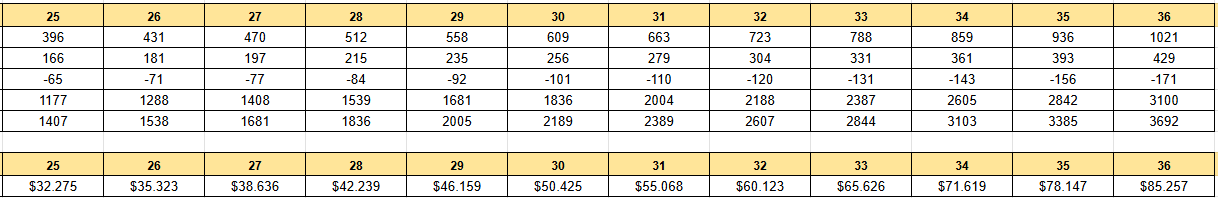
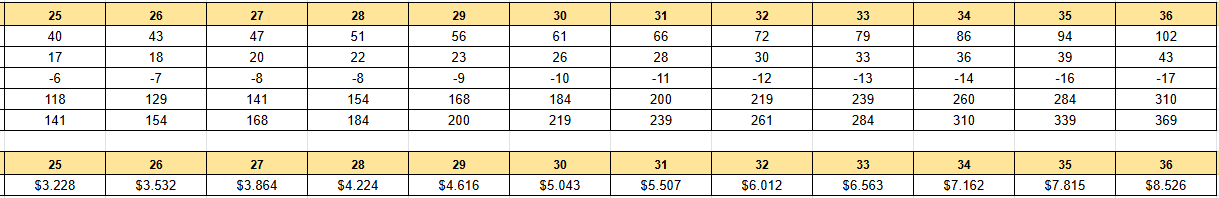
analisis financiero hecho

diff --git a/chapters/chapter04.tex b/chapters/chapter04.tex
@@ -4,23 +4,29 @@
 
 El modelo de negocio de AIVA se orienta a ofrecer a comercios de alimentos perecederos una plataforma web que pronostica la demanda diaria por producto y habilita decisiones operativas basadas en datos. La propuesta enfatiza un costo total de propiedad acotado, tiempos de respuesta breves y explicabilidad de los resultados, de modo que cada recomendación pueda ser auditada y comprendida por el equipo del local. El enfoque prioriza el impacto económico directo mediante la reducción de mermas y quiebres de stock, la mejora de la rotación y un ahorro de tiempo en tareas de carga y análisis.
 
-Con el objetivo de representar de manera estructurada la lógica de creación, entrega y captura de valor de la solución, se adopta como marco el \textit{Business Model Canvas} (BMC). Esta herramienta permite describir y analizar de forma sistemática los distintos componentes del modelo de negocio —propuesta de valor, clientes, canales, recursos, actividades, socios, estructura de costos e ingresos— y constituye la base conceptual que habilita posteriormente el desarrollo del análisis financiero. De este modo, el BMC actúa como puente entre la definición estratégica del proyecto y la evaluación cuantitativa de su viabilidad económica.
+Con el objetivo de representar de manera estructurada la lógica de creación, entrega y captura de valor de la solución, se adopta como marco el \textit{Business Model Canvas} (BMC). Esta herramienta permite describir y analizar de forma sistemática los distintos componentes del modelo de negocio, entre ellos la propuesta de valor, clientes, canales, recursos, actividades, socios, estructura de costos e ingresos, y constituye la base conceptual que habilita posteriormente el desarrollo del análisis financiero. De este modo, el BMC actúa como puente entre la definición estratégica del proyecto y la evaluación cuantitativa de su viabilidad económica.
 
 \subsection{Propuesta de Valor}
 AIVA propone una plataforma web de fácil adopción para comercios que operan con productos perecederos (panaderías, confiterías y tiendas naturales), orientada a reducir mermas y faltantes mediante planificación basada en datos. La solución integra modelos de predicción de demanda con series temporales y variables exógenas (clima y feriados), un asistente conversacional para consultas operativas y un flujo de carga asistida por imágenes (OCR) que minimiza la fricción de ingreso de datos. El valor se manifiesta en una mejora de la disponibilidad de productos, una disminución del desperdicio y una optimización de los recursos de producción, traduciéndose en mayor eficiencia operativa y márgenes más saludables para el comerciante.
 
 \subsection{Segmentos de Clientes}
-El segmento objetivo está conformado por pequeñas y medianas empresas del sector de alimentos perecederos, con foco en panaderías y confiterías de barrio. Se trata de negocios con recursos limitados para soluciones corporativas complejas, pero con necesidad crítica de herramientas predictivas que acompañen decisiones diarias de producción y reposición.
-En esta primera etapa de desarrollo, el proyecto se plantea como meta alcanzar un parque de mil usuarios activos, conformado por comercios de pequeña y mediana escala dentro del sector de alimentos perecederos. Esta cifra funciona como horizonte de referencia tanto para dimensionar la infraestructura tecnológica como para proyectar el análisis financiero del modelo de negocio.
+El segmento objetivo está conformado por pequeñas y medianas empresas del sector de alimentos perecederos, con foco en panaderías, confiterías, y emprendimientos dedicados a la elaboración de productos frescos o de corta vida útil, incluyendo productores artesanales, pastelerías, fábricas de tortas y comercios gastronómicos afines.
+Se trata de negocios que, si bien operan con estructuras reducidas y recursos acotados en comparación con grandes cadenas, requieren herramientas tecnológicas accesibles que les permitan optimizar la planificación de su producción y reposición diaria.
+En esta primera etapa, el proyecto se propone alcanzar un parque de 300 usuarios activos, conformado por comercios y emprendimientos de pequeña y mediana escala dentro del sector de alimentos perecederos. Esta meta sirve como referencia tanto para dimensionar la infraestructura tecnológica como para proyectar el análisis financiero del modelo de negocio.
 
 \subsection{Canales}
-La captación se apoya primordialmente en publicidad digital, para la cual se asigna el 50\% del valor de la suscripción (USD~15 por usuario activo). Este canal permite adquisición directa, medible y escalable. La estrategia se complementa con difusión orgánica (boca a boca) y presencia sectorial, a efectos de reforzar la marca en el ámbito de referencia del cliente objetivo.
+La captación se apoya primordialmente en publicidad digital, para la cual se asigna el 50\% del valor de la suscripción (USD~15 por usuario). Este canal permite adquisición directa, medible y escalable. La estrategia se complementa con difusión orgánica (boca a boca) y presencia sectorial, a efectos de reforzar la marca en el ámbito de referencia del cliente objetivo.
 
 \subsection{Relación con los Clientes}
 El modelo de relación combina autoservicio digital para el registro y uso inicial con soporte técnico y funcional por correo electrónico. Este esquema preserva la escalabilidad sin desatender la asistencia necesaria durante la adopción y operación, especialmente en etapas de onboarding y calibración del modelo predictivo.
 
 \subsection{Recursos Clave}
-Los recursos críticos son la infraestructura y las capacidades analíticas. En backend, \emph{Supabase Pro} ofrece hasta 100{,}000 usuarios activos mensuales incluidos, 250~GB/mes de egress (con amplio margen frente al patrón de uso de 1{,}000 usuarios) y 8~GB de base de datos (con ampliación bajo demanda), además de 100~GB de almacenamiento. En frontend, \emph{Vercel Pro} proporciona despliegue continuo, edge network, caché y observabilidad, suficientes para garantizar disponibilidad y rendimiento frente a la meta de 1{,}000 usuarios. A ello se suman APIs de terceros: datos meteorológicos (OpenWeather), capacidades de reconocimiento óptico de caracteres (OCR) y modelos de lenguaje de gran escala provistos por OpenAI, que sustentan tanto el asistente conversacional como los procesos de interpretación de datos visuales. Estos recursos tecnológicos fortalecen la diferenciación funcional de AIVA y garantizan una experiencia de usuario fluida, explicable y de alto valor agregado.
+
+Los recursos críticos del proyecto se centran en la infraestructura tecnológica y las capacidades analíticas que permiten ofrecer una experiencia confiable, predictiva y escalable.
+En el backend, la plataforma \emph{Supabase Pro} constituye la base del sistema, brindando autenticación segura, base de datos relacional, almacenamiento y APIs en tiempo real. Su capacidad, que admite hasta 100{,}000 usuarios activos mensuales y 250 GB/mes de egress, ofrece un amplio margen frente a la meta inicial de 300 usuarios, garantizando rendimiento y estabilidad, con la posibilidad de ampliar recursos conforme crezca la adopción.
+En el frontend, \emph{Vercel Pro} permite despliegue continuo, red de distribución global (edge network), caché y monitoreo de rendimiento, asegurando tiempos de respuesta óptimos y una experiencia de usuario fluida.
+A ello se suman integraciones con APIs de terceros: datos meteorológicos (\emph{OpenWeather}), reconocimiento óptico de caracteres (OCR) y modelos de lenguaje de gran escala (\emph{OpenAI}), que sustentan el asistente conversacional y los procesos de interpretación automática de información.
+En conjunto, estos recursos no solo cubren de forma eficiente las necesidades actuales del proyecto, sino que también sientan las bases para una expansión sin fricciones hacia una mayor escala de usuarios y funcionalidades.
 
 \subsection{Actividades Clave}
 Las actividades esenciales incluyen el desarrollo y mantenimiento de la plataforma, la mejora continua de los modelos de predicción (monitoreo de error y recalibración), la operación y observabilidad del servicio en producción, la ejecución de campañas de adquisición digital y la provisión de soporte al usuario final. La consistencia entre predicción y operación diaria del comercio es un objetivo permanente.
@@ -32,7 +38,7 @@ Si bien la adquisición es directa, se consideran aliados sectoriales (cámaras 
 La estructura combina costos fijos y variables. Entre los fijos se contemplan las suscripciones de infraestructura (Supabase Pro y Vercel Pro) y las herramientas de operación. Entre los variables se incluyen publicidad digital (USD~15 por usuario activo al mes asignados a adquisición), uso incremental de APIs (LLM, OCR, clima), almacenamiento y egress por encima de los tramos incluidos, y el soporte operativo. Adicionalmente, cada alta entra en un período de prueba de un mes, durante el cual los costos recaen sobre AIVA sin ingresos asociados, por lo que representa un costo directo de adquisición. La inversión inicial (CapEx) en desarrollo e ingeniería se registra previo al lanzamiento del servicio.
 
 \subsection{Fuentes de Ingresos}
-El ingreso proviene de una suscripción mensual de USD~30 por usuario. Este flujo recurrente se modela con una tasa de cancelación (churn) mensual del 5\%, incorporando además la conversión del período de prueba (trial) al plan pago. La combinación de suscripción, retención y adquisición digital permite proyectar escalabilidad de ingresos acorde con el crecimiento del parque de clientes.
+El ingreso proviene de una suscripción mensual de USD~30 por usuario. Este flujo recurrente se modela con una tasa de cancelación (churn) mensual del 5\%, incorporando además la conversión del período de prueba (trial) al plan pago de un 42\%. La combinación de suscripción, retención y adquisición digital permite proyectar escalabilidad de ingresos acorde con el crecimiento del parque de clientes.
 
 \subsection{Indicadores Financieros Clave}
 Para evaluar la sostenibilidad económica del modelo se incorporan métricas estándar de negocios por suscripción.
@@ -72,7 +78,7 @@ En términos de buenas prácticas SaaS, valores superiores a 3 son deseables; el
 
 El modelo financiero se estructura sobre un servicio por suscripción mensual de USD~30 con un mes de prueba inicial sin cargo. La inclusión de un período de prueba se fundamenta en evidencia empírica que demuestra cómo el diseño de los \textit{trials} puede incidir en la adopción y la conversión: estudios experimentales en plataformas SaaS confirman que extender o personalizar la duración de la prueba incrementa tanto su utilización como la probabilidad de que los usuarios se conviertan en clientes pagos (Zhang, 2025). En este marco, se adopta una tasa de conversión post‐trial del 42\% como supuesto de referencia, entendida como una hipótesis informada por la literatura, que posteriormente deberá ser contrastada con datos reales de operación.
 
-En cuanto a la tasa de cancelación (\textit{churn}), los benchmarks de referencia para SaaS B2B muestran que, en servicios con un precio mensual entre USD~25 y USD~50, el churn promedio es de 7,3\% (Vitally, 2025). En este análisis se adopta un 6\% como supuesto operativo, lo que representa una postura conservadora que evita sobredimensionar la retención de usuarios.
+En cuanto al churn, los benchmarks de referencia para SaaS B2B muestran que, en servicios con un precio mensual entre USD~25 y USD~50, el churn promedio es de 7,3\% (Vitally, 2025). En este análisis se adopta un 6\% como supuesto operativo, lo que representa una postura conservadora que evita sobredimensionar la retención de usuarios.
 
 
 
@@ -81,24 +87,75 @@ La sostenibilidad del modelo se evalúa mediante métricas propias de negocios p
 
 
 \subsection{Estructura de costos: CapEx}
-La inversión inicial (\emph{CapEx}) corresponde principalmente a recursos humanos para el desarrollo del MVP y el despliegue productivo. Se contemplan seis roles, con tarifas medias y dedicación acumulada de seis meses (o equivalentes). El detalle se presenta en la Figura~\ref{fig:capex}.
+La estructura de costos de capital (CAPEX) refleja la inversión necesaria para el desarrollo inicial de la plataforma, abarcando tanto el diseño funcional como la implementación tecnológica y las actividades de lanzamiento. El proyecto demanda un total estimado de 600 horas de trabajo, distribuidas en un período aproximado de dos meses de desarrollo con un equipo interdisciplinario que cubre las áreas clave del producto.
 
-\begin{figure}[!htbp]
-  \centering
-  \includegraphics[width=0.85\textwidth]{images/Capex.PNG}
-  \caption{Detalle de CapEx por rol -- Fuente: elaboración propia}
-  \label{fig:capex}
-\end{figure}
+El esfuerzo principal se concentra en los roles técnicos: desarrollo backend y frontend, responsables de la arquitectura, la base de datos y la interfaz de usuario. A ello se suma la participación de un ingeniero en machine learning, encargado del diseño e integración del modelo predictivo, un QA tester para la validación funcional y control de calidad, y un marketing manager dedicado al posicionamiento y las acciones de comunicación del producto. La coordinación general está a cargo del project manager, quien supervisa la planificación, cumplimiento de plazos y alineación del desarrollo con los objetivos de negocio.
+
+El costo total estimado para esta etapa asciende a USD 15 600, monto que cubre la totalidad del desarrollo del prototipo funcional y su despliegue inicial, estableciendo las bases tecnológicas y operativas para la posterior etapa de validación y escalamiento comercial. El detalle se presenta en la tabla 4.I.
+
+\begin{table}[t]
+    \centering
+    \renewcommand{\arraystretch}{1.3}
+    \caption{Estructura de costos de desarrollo (CAPEX)}
+    \label{tab:capex}
+    \begin{tabular}{|p{4.5cm}|p{2.2cm}|p{2.5cm}|p{2.5cm}|}
+        \hline
+        \textbf{Rol / Recurso} & \textbf{Horas} & \textbf{Tarifa (USD/h)} & \textbf{Costo total (USD)} \\
+        \hline
+        Desarrollador Backend & 160 & 30 & 4,800 \\
+        \hline
+        Desarrollador Frontend & 160 & 25 & 4,000 \\
+        \hline
+        Ingeniero en Machine Learning & 100 & 30 & 3,000 \\
+        \hline
+        Project Manager & 40 & 25 & 1,000 \\
+        \hline
+        Marketing Manager & 100 & 20 & 2,000 \\
+        \hline
+        QA Tester & 40 & 20 & 800 \\
+        \hline
+        \textbf{Total CAPEX} & \textbf{600} & -- & \textbf{15,600} \\
+        \hline
+    \end{tabular}
+\end{table}
+
+
 
 \subsection{Estructura de costos: OpEx}
-El \emph{OpEx} mensual combina componentes fijos y variables. Entre los fijos se incluyen hosting del frontend y base de datos/backend; entre los variables: publicidad proporcional a las altas, impuestos locales sobre ingresos brutos, comisiones de facturación/cobranza, uso de tokens de OpenAI y servicios de clima. La Figura~\ref{fig:costos-variables-fijas} resume los parámetros fijos empleados en el modelo.
+El \emph{OpEx} mensual combina componentes fijos y variables. Entre los fijos se incluyen hosting del frontend y base de datos/backend; entre los variables: publicidad proporcional a las altas, impuestos locales sobre ingresos brutos, comisiones de facturación/cobranza, uso de tokens de OpenAI y servicios de clima. La tabla 4.II resume los parámetros fijos empleados en el modelo.
 
-\begin{figure}[!htbp]
-  \centering
-  \includegraphics[width=0.6\textwidth]{images/CostosVariablesFijas.PNG}
-  \caption{Variables fijas para costos -- Fuente: elaboración propia}
-  \label{fig:costos-variables-fijas}
-\end{figure}
+\begin{table}[t]
+    \centering
+    \renewcommand{\arraystretch}{1.3}
+    \caption{Variables fijas y parámetros operativos del modelo}
+    \label{tab:variables_fijas}
+    \begin{tabular}{|p{6cm}|p{3cm}|}
+        \hline
+        \textbf{Variable} & \textbf{Valor} \\
+        \hline
+        Tasa de Crecimiento Mensual & 9\% \\
+        \hline
+        Tasa de Conversión & 42\% \\
+        \hline
+        Churn (cancelación mensual) & 6\% \\
+        \hline
+        Precio del Plan Unitario & \$30,00 \\
+        \hline
+        Publicidad – Costo por Alta & \$15,00 \\
+        \hline
+        Hosting / Front End & \$20,00 \\
+        \hline
+        Base de Datos / Back End & \$25,00 \\
+        \hline
+        API de Clima (hasta 1000 usuarios) & \$0,00 \\
+        \hline
+        API de Clima (por usuario adicional) & \$0,00015 \\
+        \hline
+        Uso de OpenAI (por consulta promedio) & \$0,35 \\
+        \hline
+    \end{tabular}
+\end{table}
+
 
 El detalle mensual del OpEx se presenta en las Figuras~\ref{fig:opex-anio1}, \ref{fig:opex-anio2} y \ref{fig:opex-anio3}, correspondientes a los tres primeros años de operación.
 
@@ -130,7 +187,9 @@ En el escenario base del modelo financiero se adopta una tasa de crecimiento men
 
 En cuanto a los costos variables asociados al uso de inteligencia artificial, el análisis estima un cargo aproximado de USD~0,35 por usuario activo mensual correspondiente a consultas a modelos de OpenAI (tanto para el asistente conversacional como para funciones de OCR). Este valor surge de proyectar el patrón de uso definido en el caso base (alrededor de 30 consultas diarias por usuario, con una media de tokens por interacción y las tarifas vigentes de la API), lo que permite dimensionar de manera realista el impacto unitario de la infraestructura cognitiva sobre el costo operativo.
 
-Finalmente, los resultados consolidados permiten sintetizar los principales indicadores financieros del escenario base. En el horizonte de tres años, los ingresos acumulados alcanzan aproximadamente USD~929.270, mientras que los costos operativos totales (OPEX) ascienden a USD~313.841. La inversión inicial (CapEx), correspondiente al desarrollo de la plataforma y adquisición de equipamiento, se sitúa en USD~196.000 adicionales. Este resumen evidencia que, bajo los supuestos planteados, el modelo proyecta una senda de crecimiento sostenible en la que los ingresos superan ampliamente los costos, validando la viabilidad económica de la propuesta.
+Bajo estas condiciones, la proyección del modelo alcanza 310 usuarios activos al cierre del tercer año, cumpliendo y ligeramente superando la meta inicial de 300 usuarios planteada en la etapa de planificación. Este nivel de adopción representa una base sólida de clientes recurrentes que garantiza la estabilidad de los ingresos y valida la propuesta de valor del sistema en su nicho objetivo.
+
+Finalmente, los resultados consolidados permiten sintetizar los principales indicadores financieros del escenario base. En el horizonte de tres años, los ingresos acumulados alcanzan aproximadamente USD~92.927, mientras que los costos operativos totales (OPEX) ascienden a USD~32.842. La inversión inicial (CapEx), correspondiente al desarrollo de la plataforma y adquisición de equipamiento, se sitúa en USD~15.600 adicionales. Este resumen evidencia que, bajo los supuestos planteados, el modelo proyecta una senda de crecimiento sostenible en la que los ingresos superan ampliamente los costos, validando la viabilidad económica de la propuesta.
 
 
 \begin{figure}[!htbp]
@@ -159,11 +218,11 @@ Finalmente, los resultados consolidados permiten sintetizar los principales indi
 
 El flujo de fondos proyectado para el caso base integra los ingresos por suscripciones, los costos operativos (OPEX) y la inversión inicial en desarrollo y equipamiento (CapEx). La dinámica se construye sobre el supuesto de crecimiento mensual del 9\% en altas de usuarios, con una conversión del 42\% post--trial, una tasa de cancelación mensual del 6\% y una tasa anual del 20\% que se utiliza en los 3 escenarios propuestos. 
 
-En el \textbf{Año 1}, los ingresos generados resultan todavía insuficientes para cubrir la inversión inicial y los costos operativos, lo que mantiene el flujo acumulado en valores negativos a lo largo de los primeros meses. A medida que avanza el año, la curva de ingresos se acelera y reduce progresivamente el déficit acumulado, pasando de --USD~196.000 en el inicio a --USD~170.845 al cierre del mes 12.  
+En el \textbf{Año 1}, los ingresos generados resultan todavía insuficientes para cubrir la inversión inicial y los costos operativos, lo que mantiene el flujo acumulado en valores negativos a lo largo de los primeros meses. A medida que avanza el año, la curva de ingresos se acelera y reduce progresivamente el déficit acumulado, pasando de --USD~15.600 en el inicio a --USD~13.570 al cierre del mes 12.  
 
-Durante el \textbf{Año 2}, la progresión de clientes pagos permite un crecimiento sostenido en los ingresos. Este efecto acelera la reducción del déficit acumulado, que desciende desde --USD~164.618 en el mes 13 hasta --USD~25.475 al finalizar el mes 24. El negocio se aproxima al punto de equilibrio financiero (\textit{break-even}), el cual se alcanza en el transcurso del tercer año.  
+Durante el \textbf{Año 2}, la progresión de clientes pagos permite un crecimiento sostenido en los ingresos. Este efecto acelera la reducción del déficit acumulado, que desciende desde --USD~12.988 en el mes 13 hasta --USD~1.449 al finalizar el mes 24. El negocio se aproxima al punto de equilibrio financiero (\textit{break-even}), el cual se alcanza en el transcurso del tercer año.  
 
-Finalmente, en el \textbf{Año 3}, el flujo acumulado se torna positivo y refleja un proceso de recuperación de la inversión inicial. A partir del mes 27 se alcanza el \textit{break-even} (USD~45.744 acumulados), y desde allí los excedentes se amplían con rapidez hasta llegar a un saldo positivo de USD~419.427 al cierre del mes 36. Este comportamiento confirma la viabilidad económica del modelo bajo los parámetros establecidos en el escenario base.  
+Finalmente, en el \textbf{Año 3}, el flujo acumulado se torna positivo y refleja un proceso de recuperación de la inversión inicial. A partir del mes 24 se alcanza el \textit{break-even}, y desde allí los excedentes se amplían con rapidez hasta llegar a un saldo positivo de USD~44.484 al cierre del mes 36. Este comportamiento confirma la viabilidad económica del modelo bajo los parámetros establecidos en el escenario base.  
 
 Las Figuras~\ref{fig:flujo-anio1}, \ref{fig:flujo-anio2} y \ref{fig:flujo-anio3} muestran en detalle la evolución mensual del flujo de fondos para cada uno de los tres años analizados.
 
@@ -200,22 +259,44 @@ Con el objetivo de evaluar la robustez del modelo financiero se plantearon tres 
   \item \textbf{Payback}: señala el tiempo requerido para recuperar la inversión inicial a través de los flujos netos de caja. A menor período de recuperación, menor es el riesgo financiero.
 \end{itemize}
 
-\paragraph{Escenario pesimista (5\% de crecimiento mensual).}  
-En esta proyección el modelo alcanza ingresos acumulados por USD~463.716 al cabo de tres años, con un OPEX total de USD~140.543. El VAN resulta positivo, aunque reducido (USD~15.531), mientras que la TIR se ubica en 24\%. El período de repago de la inversión inicial se extiende a 2 años y 6 meses. Este escenario refleja que, aun con un ritmo bajo de crecimiento, la propuesta mantiene viabilidad económica, pero con márgenes ajustados y retornos moderados.
 
 \paragraph{Escenario base (9\% de crecimiento mensual).}  
-Se trata del caso central de análisis. Bajo estos parámetros los ingresos totales ascienden a USD~929.270 en tres años, con un OPEX acumulado de USD~313.842. El VAN se eleva a USD~191.940 y la TIR alcanza un 53\%. El payback se logra en 2 años y 2 meses. Este escenario confirma que, con una dinámica de crecimiento acorde a benchmarks de SaaS en etapas iniciales, el modelo no solo cubre con holgura la inversión inicial de USD~196.000, sino que además genera una rentabilidad significativa.
+Se trata del caso central de análisis. Bajo estos parámetros los ingresos totales ascienden a USD~92.927 en tres años, con un OPEX acumulado de USD~32.842. El VAN se eleva a USD~22.056 y la TIR alcanza un 62\%. El payback se logra en 2 años. En este escenario, la proyección de crecimiento permite alcanzar 310 usuarios activos al cierre del tercer año, cumpliendo la meta operativa planteada para la fase de validación comercial. Este resultado confirma que, con una dinámica de expansión acorde a los benchmarks de startups SaaS en etapas iniciales, el modelo no solo cubre con holgura la inversión inicial de USD~15.600, sino que además genera una rentabilidad significativa.
+
+\paragraph{Escenario pesimista (5\% de crecimiento mensual).}  
+En esta proyección el modelo alcanza ingresos acumulados por USD~46.372 al cabo de tres años, con un OPEX total de USD~15.512. El VAN resulta positivo, aunque reducido (USD~4.415), mientras que la TIR se ubica en 32\%. El período de repago de la inversión inicial se extiende a 2 años y 4 meses. Con este ritmo de expansión más moderado, la plataforma llega a 109 usuarios activos al final del horizonte de análisis, lo que refleja un crecimiento más lento pero sostenido. Aun bajo este contexto conservador, la propuesta mantiene viabilidad económica, aunque con márgenes ajustados y retornos más acotados.
+
+
 
 \paragraph{Escenario optimista (12\% de crecimiento mensual).}  
-Bajo un desempeño más acelerado, los ingresos totales alcanzan USD~1.643.576 en el período analizado, con un OPEX proporcionalmente mayor (USD~605.135). El VAN asciende a USD~443.576 y la TIR alcanza el 75\%. El payback se produce en apenas 2 años. Este resultado muestra el potencial de escalabilidad del modelo: una mayor tracción comercial acelera la recuperación de la inversión y multiplica el valor económico generado.
+Bajo un desempeño más acelerado, los ingresos totales alcanzan USD~164.358 en el período analizado, con un OPEX proporcionalmente mayor (USD~61.971). El VAN asciende a USD~47.220 y la TIR alcanza el 85\%. El payback se produce en apenas 1 año y 10 meses. En este contexto favorable, el modelo proyecta llegar a 689 usuarios activos al término del tercer año, duplicando la meta base y demostrando un alto potencial de escalabilidad. Este resultado evidencia cómo una mayor tracción comercial acelera la recuperación de la inversión y multiplica el valor económico generado.
 
 \paragraph{Comparación y conclusiones.}  
 El contraste entre los tres escenarios permite observar la sensibilidad del modelo a la tasa de crecimiento mensual de usuarios. Mientras que con un 5\% el proyecto mantiene apenas la viabilidad financiera, a partir del 9\% se consolida como rentable y sostenible, y con un 12\% despliega un perfil altamente atractivo para inversionistas. Esto confirma que la variable crítica del modelo no reside únicamente en los costos fijos o variables, sino en la capacidad de sostener un ritmo de crecimiento en la base de clientes que garantice retornos adecuados sobre la inversión.
 
 
-\begin{figure}[!htbp]
-  \centering
-  \includegraphics[width=0.9\textwidth]{images/AnalisisFinal.PNG}
-  \caption{Comparación de escenarios: pesimista, base y optimista. Fuente: elaboración propia}
-  \label{fig:analisis-final}
-\end{figure}
+\begin{table}[t]
+    \centering
+    \renewcommand{\arraystretch}{1.3}
+    \caption{Resumen comparativo de escenarios financieros}
+    \label{tab:escenarios_financieros}
+    \begin{tabular}{|p{4cm}|p{2.5cm}|p{2.5cm}|p{3cm}|}
+        \hline
+        \textbf{Variable} & \textbf{Caso Pesimista} & \textbf{Caso Base} & \textbf{Caso Optimista} \\
+        \hline
+        Tasa de Crecimiento Mensual & 5\% & 9\% & 12\% \\
+        \hline
+        Ingresos Totales (USD) & 46,372 & 92,927 & 164,358 \\
+        \hline
+        OPEX (USD) & 15,512 & 32,842 & 61,971 \\
+        \hline
+        CAPEX (USD) & 15,600 & 15,600 & 15,600 \\
+        \hline
+        VAN (USD) & 4,415 & 22,056 & 47,220 \\
+        \hline
+        TIR Anual & 32\% & 62\% & 85\% \\
+        \hline
+        Payback & 2 años y 4 meses & 2 años & 1 año y 10 meses \\
+        \hline
+    \end{tabular}
+\end{table}
